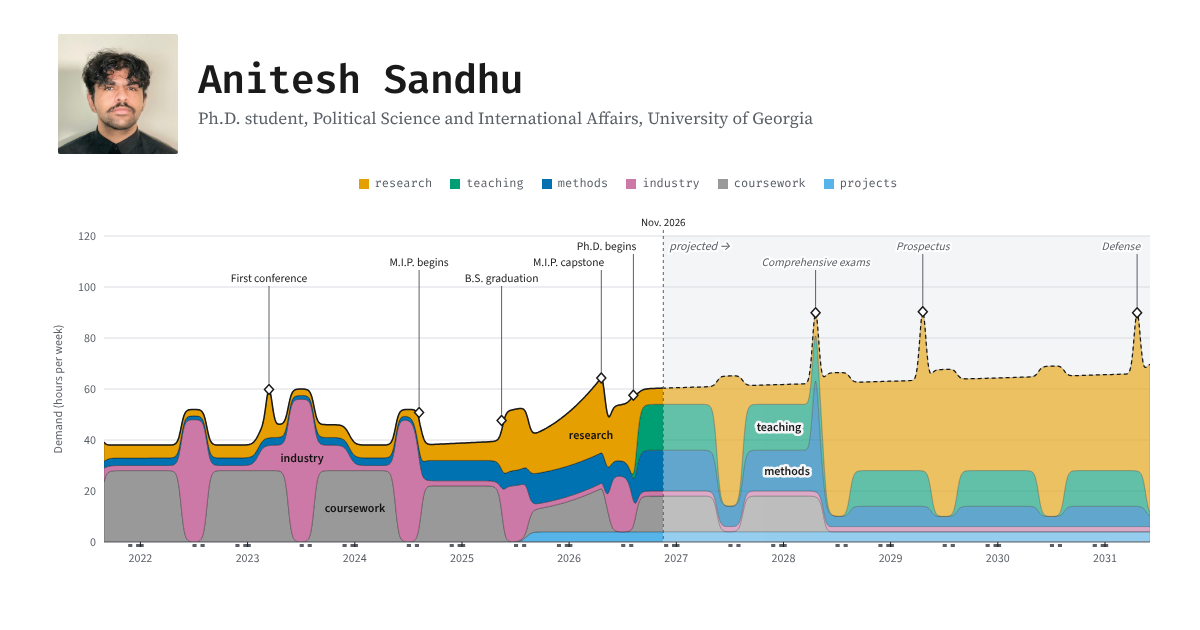
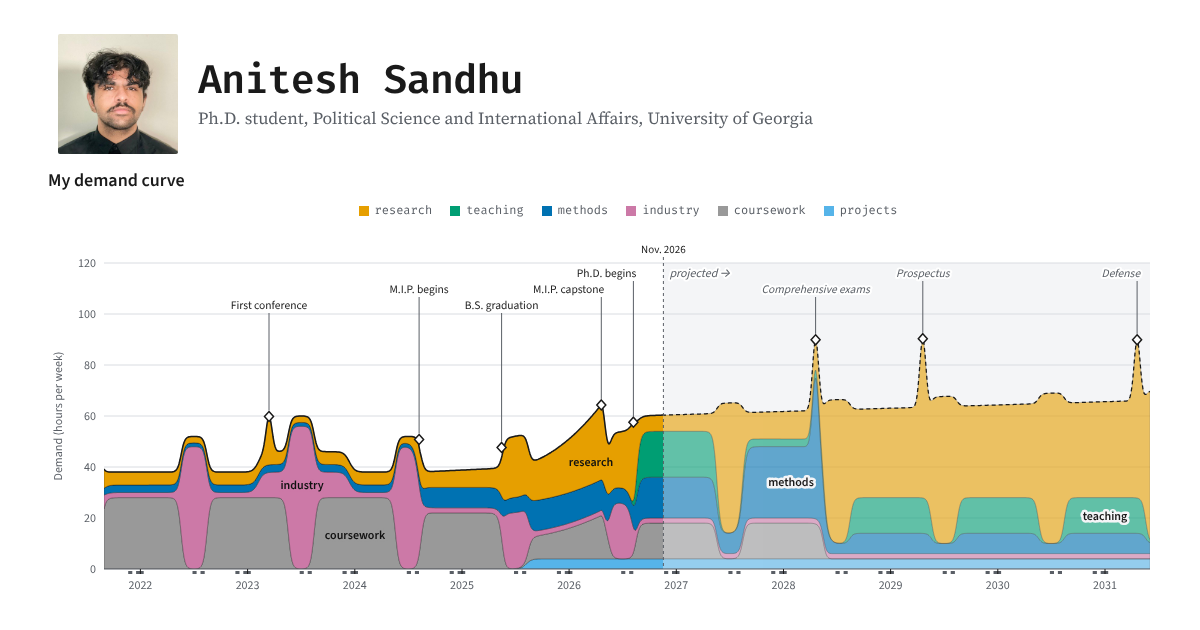
Title the chart and explain the demand-curve analogy
Adds an EIA-style title ("My demand curve") and one plain-language line on
how grid operators chart demand, so readers outside energy know what the
figure is; the caption now carries only the reading notes.

Claude-Session: https://claude.ai/code/session_01EK45k6sFjaWVFGKx49TiBy

diff --git a/index.html b/index.html
@@ -70,6 +70,10 @@
         <p>I am a first-year Ph.D. student in Political Science and International Affairs at the University of Georgia, on the methodology track with an energy emphasis. I work as an Energy Analyst at UGA's Benson-Bertsch Center for International Trade and Security. I have also worked in the energy industry, on LNG and oil market risk and on a land drilling rig refurbishment project.</p>
       </div>
       <div class="hero-side">
+        <div class="fig-head">
+          <p class="fig-title">My demand curve</p>
+          <p class="fig-sub">Power grid operators chart electricity demand as stacked bands, one for each source of supply. This is the same chart for my time: hours of work per week since my first semester, stacked by what filled them.</p>
+        </div>
         <ul class="key" aria-label="Chart key">
           <li data-band="research"><span class="sw" aria-hidden="true"></span>research</li>
           <li data-band="teaching"><span class="sw" aria-hidden="true"></span>teaching</li>
@@ -84,7 +88,7 @@
           <div class="tip" id="plot-tip" hidden></div>
         </div>
         <p class="sr-only" id="plot-live" aria-live="polite"></p>
-        <figcaption>Hours per week since my first semester, stacked the way a grid operator stacks demand. The gray side is a forecast; click a band, or a matching color in the menu, to jump to that section.</figcaption>
+        <figcaption>The gray side is projected. Holiday weeks are adjusted out and marked under the axis. Click a band, or a matching color in the menu, to jump to that section.</figcaption>
         <details class="code">
           <summary>see the code!</summary>
           <pre class="src"><code>wk   &lt;- seq(2021.66, 2031.42, by = 1/365)                    <span class="cm"># every day since my first semester</span>

diff --git a/assets/css/style.css b/assets/css/style.css
@@ -455,3 +455,9 @@ main p, figcaption { text-wrap: pretty; }
   .hero figcaption, .hero .code { padding-left: 0; }
 }
 .navbar li a[data-band].on { border-bottom-color: var(--band); }
+
+/* chart title and explainer, EIA style: title, then one line on how to read it */
+.fig-head { margin: 0 0 12px; }
+.fig-title { margin: 0; font-family: "Source Sans 3", "Helvetica Neue", Arial, sans-serif; font-weight: 600; font-size: 1.125rem; line-height: 1.25; color: var(--text); }
+.fig-sub { margin: 4px 0 0; font-family: "Source Sans 3", "Helvetica Neue", Arial, sans-serif; font-size: .875rem; line-height: 1.45; color: var(--text-2); max-width: 62ch; }
+.hero .key { margin-bottom: 2px; }
